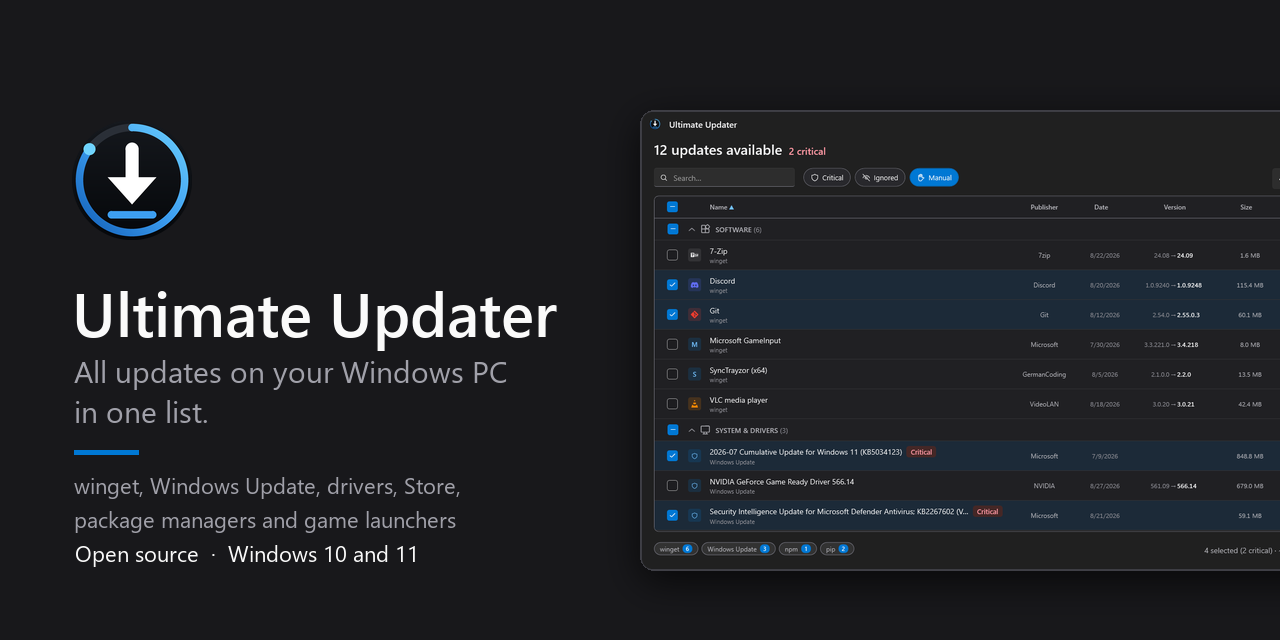
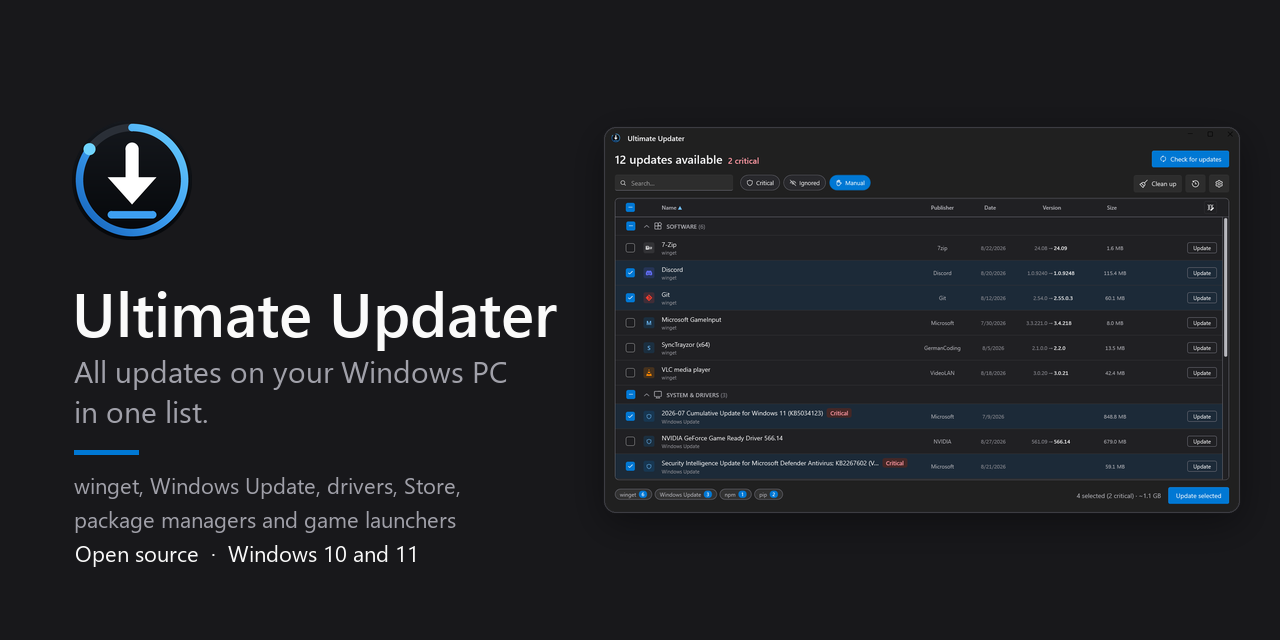
Show the whole window in the social preview
Also drop the second copyright notice from the README licence line.

diff --git a/README.md b/README.md
@@ -239,6 +239,6 @@ under CC0 (see [`NOTICE-brand-icons.md`](NOTICE-brand-icons.md)); bundled librar
 
 ## Licence
 
-[MIT](LICENSE) © 2026 BGCoding
+[MIT](LICENSE)
 
 <p align="right">© 2026 BGCoding · Made with Claude</p>
